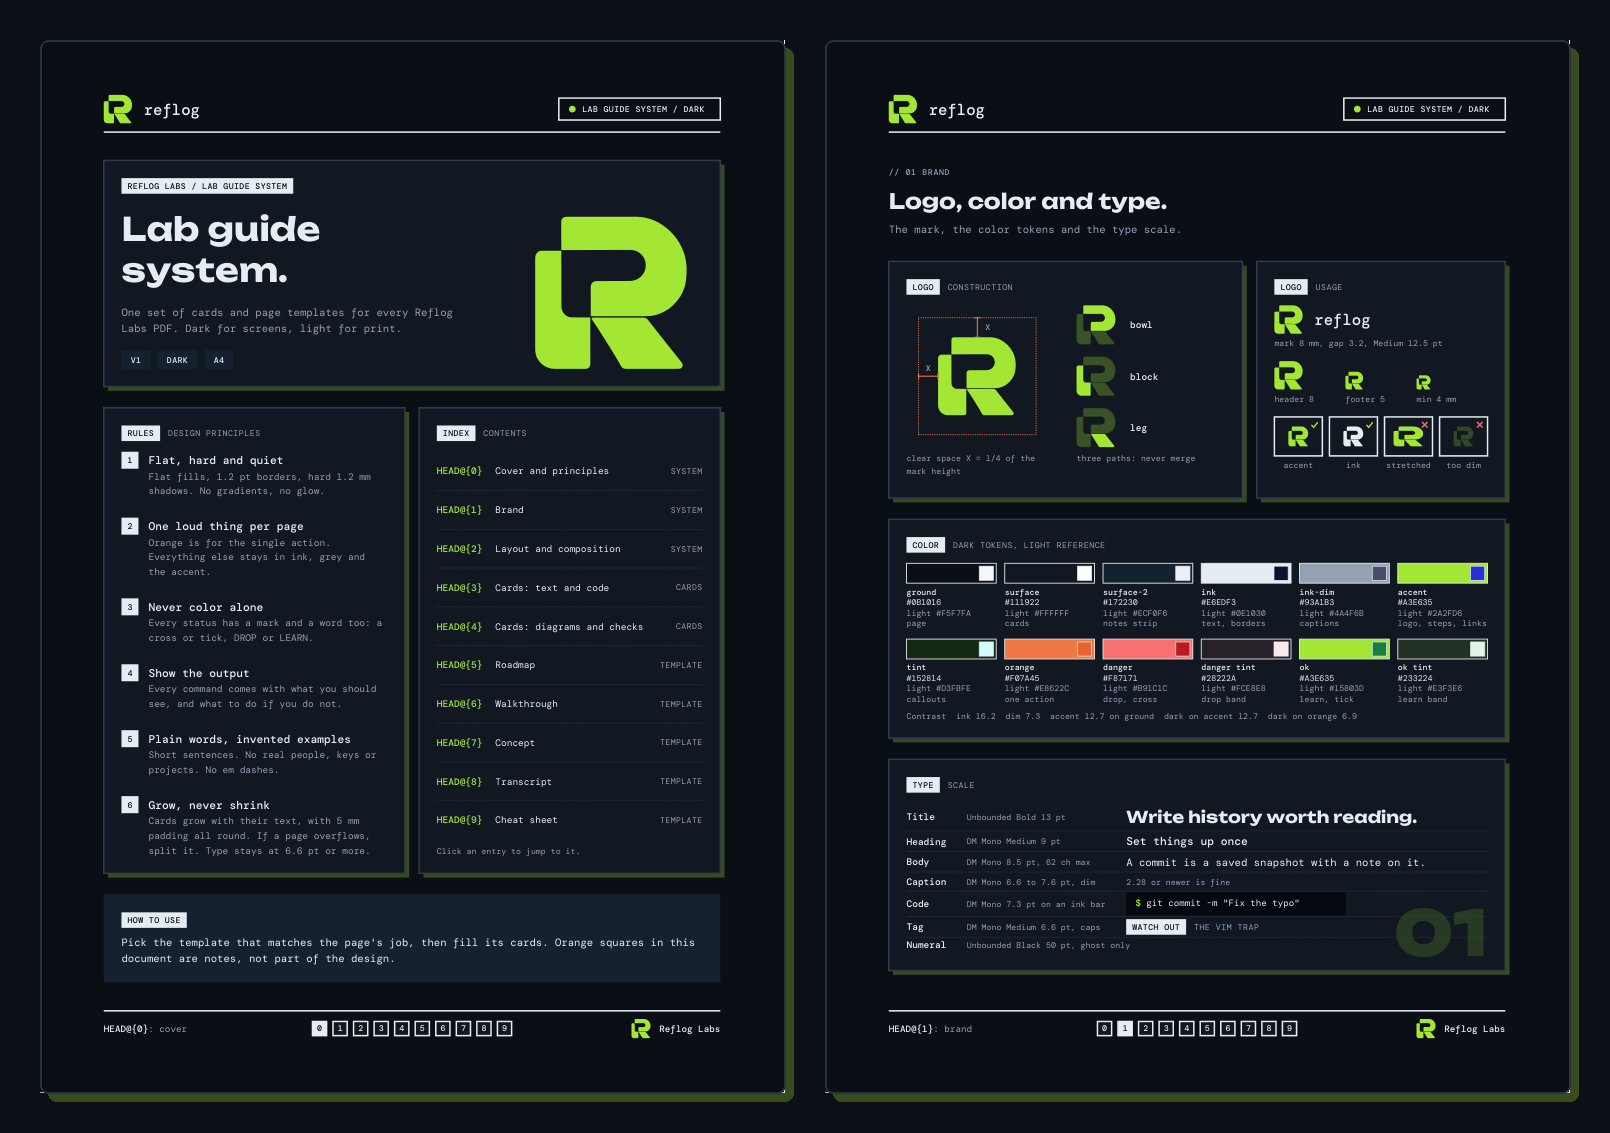
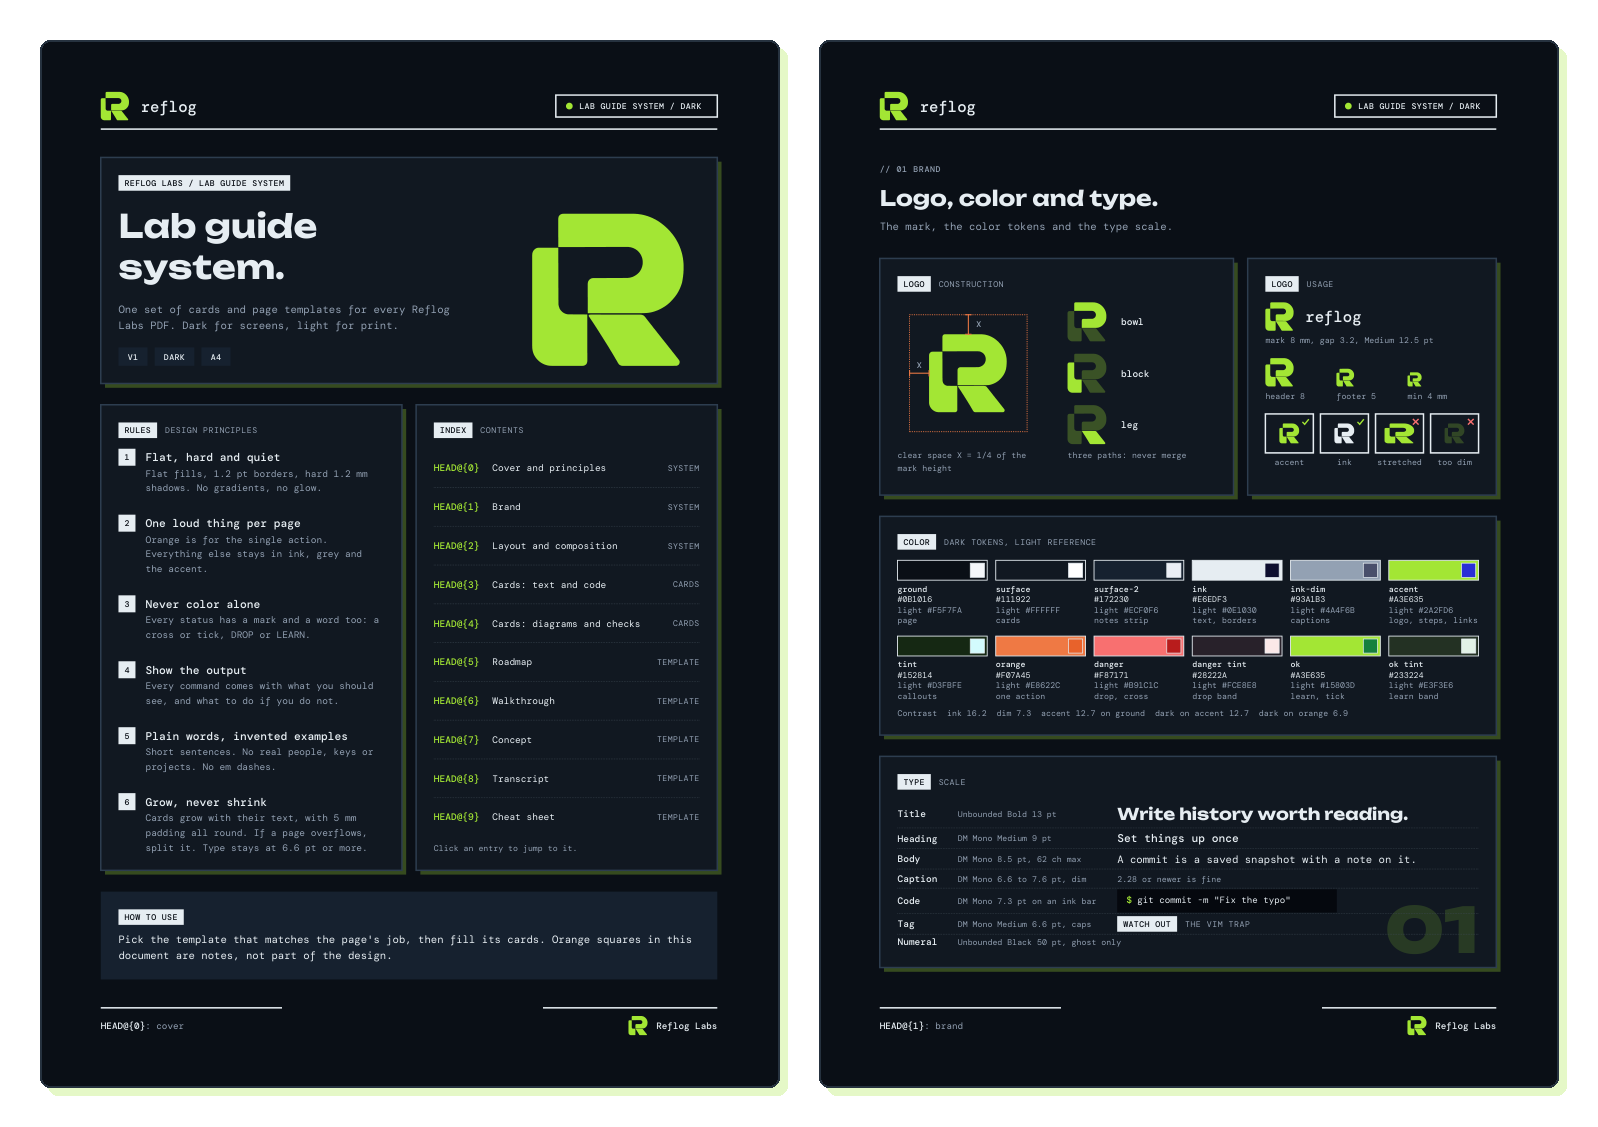
Fix spec corners, remove page numbers, and balance badge padding

diff --git a/profile/README.md b/profile/README.md
@@ -1,8 +1,9 @@
 <div align="center">
 
 <picture>
-  <source media="(prefers-color-scheme: dark)" srcset="assets/org-banner-dark.png">
-  <img src="assets/org-banner-light.png" alt="Reflog Labs: Write history worth reading" width="100%">
+  <source media="(prefers-color-scheme: dark)" srcset="assets/org-banner-dark.png#gh-dark-mode-only">
+  <source media="(prefers-color-scheme: light)" srcset="assets/org-banner-light.png#gh-light-mode-only">
+  <img src="assets/org-banner-light.png#gh-light-mode-only" alt="Reflog Labs: Write history worth reading" width="100%">
 </picture>
 
 <br><br>
@@ -54,8 +55,9 @@ Reflog Labs manuals and guides are engineered using a bespoke Python and ReportL
 <div align="center">
 
 <picture>
-  <source media="(prefers-color-scheme: dark)" srcset="assets/spec-dark.png">
-  <img src="assets/spec-light.png" alt="Reflog Labs Typography and Component Specifications" width="100%">
+  <source media="(prefers-color-scheme: dark)" srcset="assets/spec-dark.png#gh-dark-mode-only">
+  <source media="(prefers-color-scheme: light)" srcset="assets/spec-light.png#gh-light-mode-only">
+  <img src="assets/spec-light.png#gh-light-mode-only" alt="Reflog Labs Typography and Component Specifications" width="100%">
 </picture>
 
 </div>
